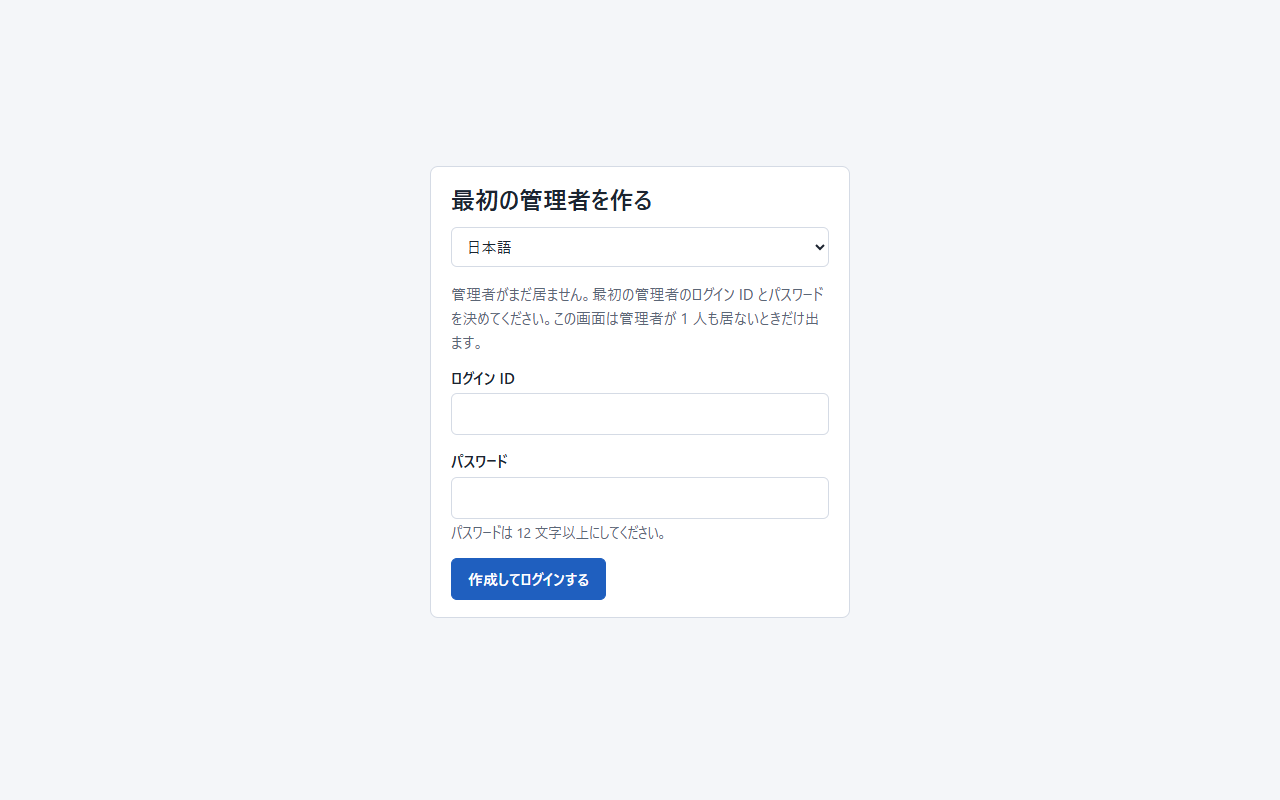
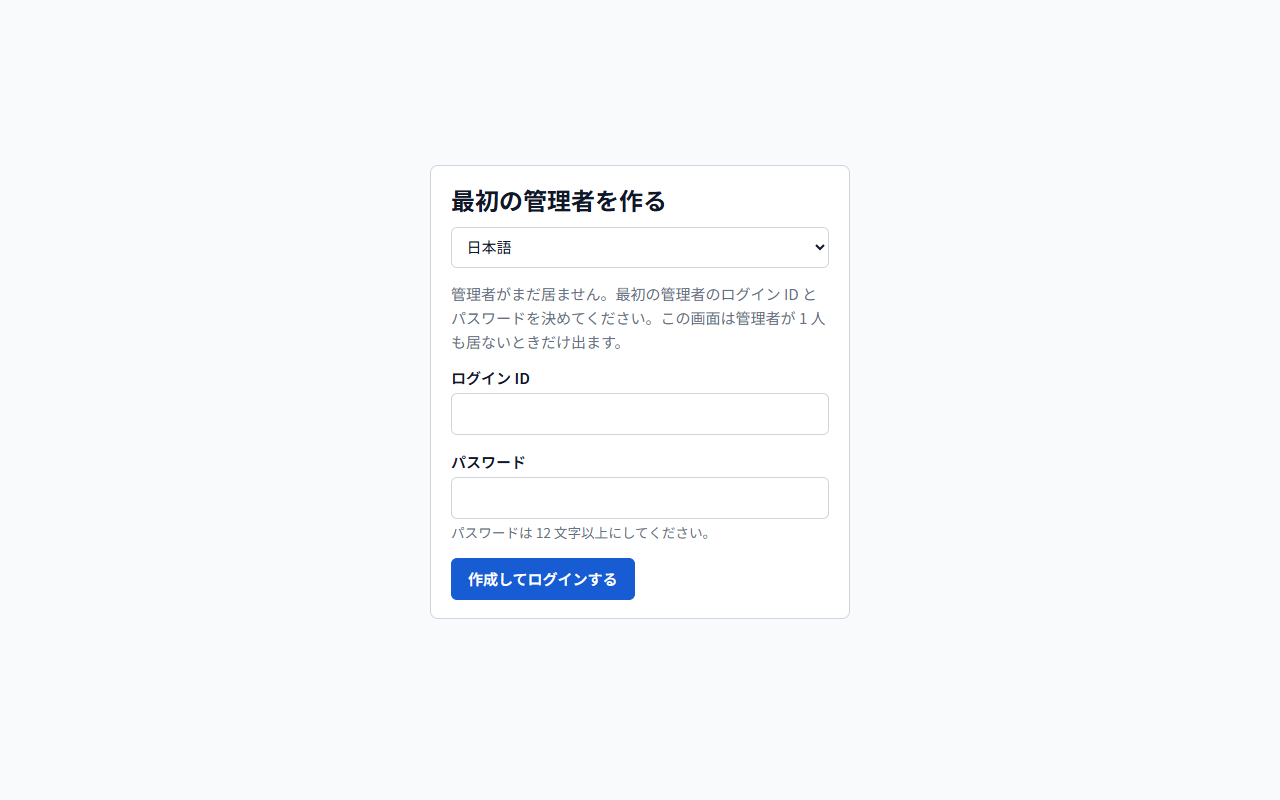
管理画面の配色・書体・アイコンを Questionnaire に揃える
配色のトークンを Questionnaire の管理画面に合わせ、書体（Noto Sans JP Variable・M PLUS 1 Code Variable）とアイコン（Material Icons）を同梱する。更新・コピー・ログアウトの釦にアイコンを付けた。書体は SIL OFL 1.1（Questionnaire と同じ版・同じ扱い。NOTICE へ追記）。検証: svelte-check 0 件、vitest 18 件、build 通過、AdminUiTests 通過、capture.mjs で画面の写しを撮り直し目で確かめた。

diff --git a/src/VehicleVision.PleasanterTools.CalendarFeed.Frontend/src/styles/app.scss b/src/VehicleVision.PleasanterTools.CalendarFeed.Frontend/src/styles/app.scss
@@ -1,23 +1,25 @@
 // CSP は style-src 'self'。インラインの style 属性・<style> は使えないので、見た目はすべてここへ書く。
 :root {
   color-scheme: light dark;
-  --bg: #f4f6f9;
+  // 配色は Questionnaire の管理画面に揃える（同じ組織の製品として、見た目をそろえる）
+  --bg: #f9fafb;
   --surface: #ffffff;
-  --surface-2: #eef1f6;
-  --text: #1c2430;
-  --muted: #5b6676;
-  --border: #d5dbe5;
-  --accent: #1f5fbf;
+  --surface-2: #f2f4f7;
+  --text: #101828;
+  --muted: #667085;
+  --border: #d0d5dd;
+  --accent: #175cd3;
   --accent-text: #ffffff;
-  --danger: #b3261e;
-  --danger-bg: #fdecea;
-  --ok: #1e7a3c;
-  --ok-bg: #e7f5ec;
-  --warn: #8a5a00;
-  --warn-bg: #fff4d6;
+  --danger: #b42318;
+  --danger-bg: #fef3f2;
+  --ok: #067647;
+  --ok-bg: #ecfdf3;
+  --warn: #7a4b00;
+  --warn-bg: #fff4e5;
   --radius: 8px;
-  --font: system-ui, -apple-system, 'Segoe UI', 'Hiragino Sans', 'Yu Gothic UI', 'Noto Sans CJK JP', 'Noto Sans', sans-serif;
-  --mono: ui-monospace, 'Cascadia Mono', Consolas, 'Noto Sans Mono CJK JP', monospace;
+  // 同梱した書体（@fontsource-variable）。等幅は日本語も等幅になる
+  --font: 'Noto Sans JP Variable', system-ui, -apple-system, 'Segoe UI', sans-serif;
+  --mono: 'M PLUS 1 Code Variable', ui-monospace, Consolas, monospace;
 }
 
 @media (prefers-color-scheme: dark) {
@@ -41,6 +43,25 @@
 
 * {
   box-sizing: border-box;
+}
+
+// アイコンの下地（同梱した Material Icons）。中身はアイコンの名前（リガチャで字形へ置き換わる）。
+// **意味は文字でも書くこと**（アイコンだけの釦は読み上げで何も伝わらない）。**aria-hidden="true" を必ず付ける**
+.material-icons {
+  font-family: 'Material Icons';
+  font-weight: normal;
+  font-style: normal;
+  font-size: 1.25em;
+  line-height: 1;
+  letter-spacing: normal;
+  white-space: nowrap;
+  vertical-align: -0.15em;
+  font-feature-settings: 'liga';
+  -webkit-font-smoothing: antialiased;
+}
+
+.btn .material-icons {
+  margin-right: 0.25em;
 }
 
 body {

diff --git a/src/VehicleVision.PleasanterTools.CalendarFeed.Frontend/src/components/AuditLogList.svelte b/src/VehicleVision.PleasanterTools.CalendarFeed.Frontend/src/components/AuditLogList.svelte
@@ -107,7 +107,7 @@
       {#each ACTIONS as a (a)}<option value={a}>{a}</option>{/each}
     </select>
     <label class="check"><input type="checkbox" bind:checked={failedOnly} />{t('auditFailedOnly')}</label>
-    <button class="btn" type="button" onclick={() => load(false)}>{t('refresh')}</button>
+    <button class="btn" type="button" onclick={() => load(false)}><span class="material-icons" aria-hidden="true">refresh</span>{t('refresh')}</button>
   </div>
 </div>
 <p class="muted">{t('auditLead')}</p>

diff --git a/src/VehicleVision.PleasanterTools.CalendarFeed.Frontend/src/components/FeedList.svelte b/src/VehicleVision.PleasanterTools.CalendarFeed.Frontend/src/components/FeedList.svelte
@@ -113,7 +113,7 @@
 <div class="page-head">
   <h1>{t('feedsTitle')}</h1>
   <div class="toolbar">
-    <button class="btn" type="button" onclick={load}>{t('refresh')}</button>
+    <button class="btn" type="button" onclick={load}><span class="material-icons" aria-hidden="true">refresh</span>{t('refresh')}</button>
     {#if canWrite}<button class="btn primary" type="button" onclick={() => (editor = { feed: null })}>{t('feedNew')}</button>{/if}
   </div>
 </div>

diff --git a/src/VehicleVision.PleasanterTools.CalendarFeed.Frontend/src/components/CopyField.svelte b/src/VehicleVision.PleasanterTools.CalendarFeed.Frontend/src/components/CopyField.svelte
@@ -17,5 +17,5 @@
 
 <div class="copy-row">
   <input type="text" readonly {value} aria-label={label} onfocus={(e) => e.currentTarget.select()} />
-  <button type="button" class="btn" onclick={copy}>{copied ? t('copied') : t('copy')}</button>
+  <button type="button" class="btn" onclick={copy}><span class="material-icons" aria-hidden="true">{copied ? 'check' : 'content_copy'}</span>{copied ? t('copied') : t('copy')}</button>
 </div>

diff --git a/src/VehicleVision.PleasanterTools.CalendarFeed.Frontend/src/App.svelte b/src/VehicleVision.PleasanterTools.CalendarFeed.Frontend/src/App.svelte
@@ -143,7 +143,7 @@
     <div class="header-tools">
       <LanguageSelect />
       <span class="small muted">{me.loginId}</span>
-      <button class="btn small" type="button" onclick={signOut}>{t('signOut')}</button>
+      <button class="btn small" type="button" onclick={signOut}><span class="material-icons" aria-hidden="true">logout</span>{t('signOut')}</button>
     </div>
   </header>
   <main>

diff --git a/src/VehicleVision.PleasanterTools.CalendarFeed.Frontend/src/main.ts b/src/VehicleVision.PleasanterTools.CalendarFeed.Frontend/src/main.ts
@@ -1,3 +1,7 @@
+// 書体とアイコンは同梱する（端末の書体に依存させない。CSP の font-src 'self' で配る）
+import '@fontsource-variable/noto-sans-jp';
+import '@fontsource-variable/m-plus-1-code';
+import '@fontsource/material-icons';
 import { mount } from 'svelte';
 import App from './App.svelte';
 import './styles/app.scss';

diff --git a/src/VehicleVision.PleasanterTools.CalendarFeed.Frontend/src/components/SettingsPanel.svelte b/src/VehicleVision.PleasanterTools.CalendarFeed.Frontend/src/components/SettingsPanel.svelte
@@ -149,7 +149,7 @@
 
 <div class="page-head">
   <h1>{t('settingsTitle')}</h1>
-  <button class="btn" type="button" onclick={load}>{t('refresh')}</button>
+  <button class="btn" type="button" onclick={load}><span class="material-icons" aria-hidden="true">refresh</span>{t('refresh')}</button>
 </div>
 <p class="muted">{t('settingsLead')}</p>
 

diff --git a/_documents/機能一覧.md b/_documents/機能一覧.md
@@ -35,7 +35,7 @@ Questionnaire の同名の文書に倣った。
 
 | 機能 | 内容 | 関連（Issue / PR） |
 | --- | --- | --- |
-| 管理画面（Svelte） | フィード・管理者・監査ログ・設定・アカウント。**7 言語**（ja / en / zh / de / ko / es / vi）・ダークモード・スマートフォン幅。CSP は `default-src 'none'`（インラインのスクリプト・スタイルなし） | #30 |
+| 管理画面（Svelte） | フィード・管理者・監査ログ・設定・アカウント。**7 言語**（ja / en / zh / de / ko / es / vi）・ダークモード・スマートフォン幅。**配色・書体（Noto Sans JP・M PLUS 1 Code）・アイコン（Material Icons）は Questionnaire に揃え、アプリへ同梱する**（OFL-1.1。`NOTICE`）。CSP は `default-src 'none'`（インラインのスクリプト・スタイルなし） | #30 |
 | アプリケーション設定の編集 | 設定を画面から編集（優先順位は **外部設定 ＞ DB ＞ 既定値**。外部設定にあるものは「固定」）。秘密は暗号化して保管し、返さない。他の台へは 30 秒以内に反映 | #40・PR #41 |
 | 画面の写し | `tools/screenshots` で撮り直せる | [`管理画面-画面の写し一覧.md`](管理画面-画面の写し一覧.md) |
 
